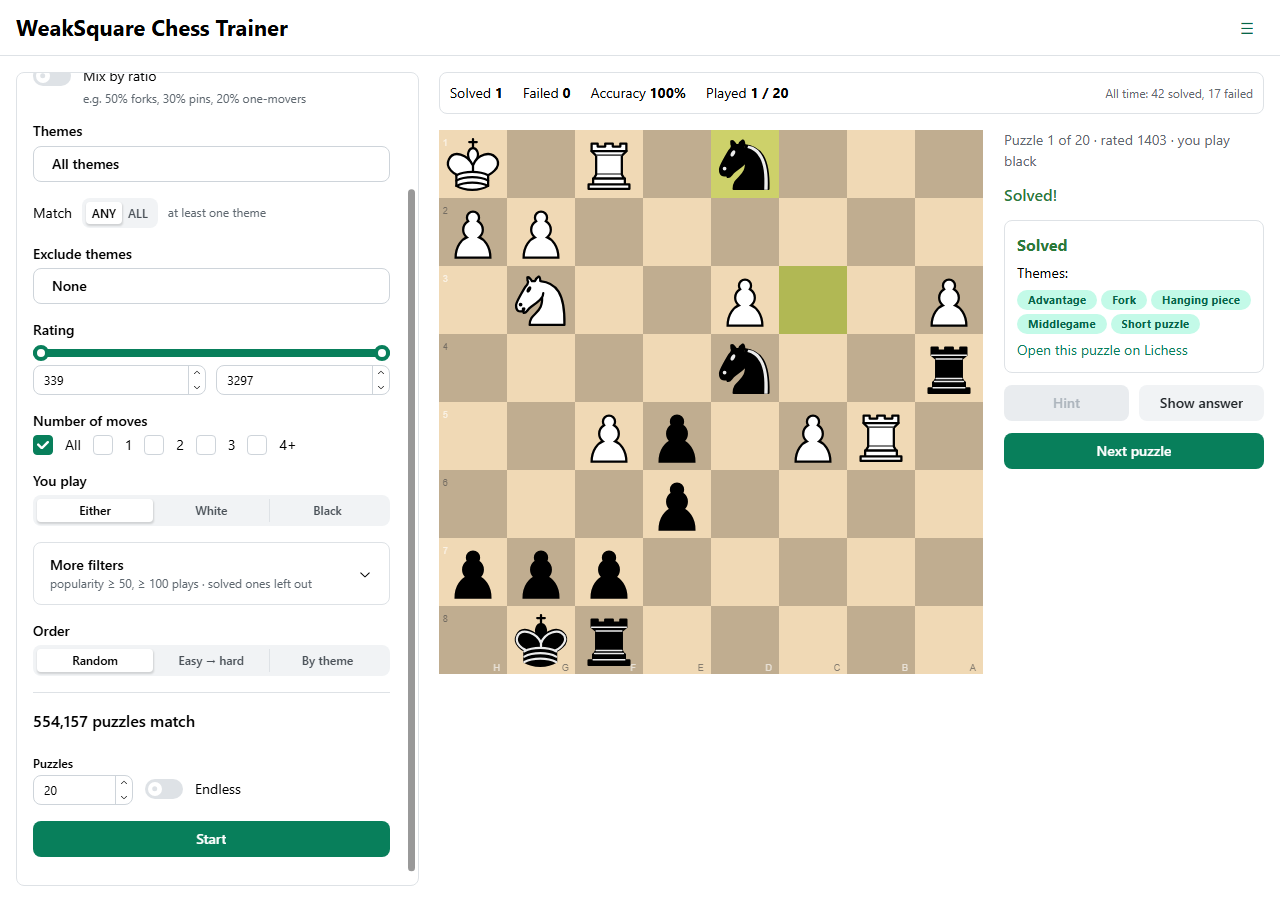
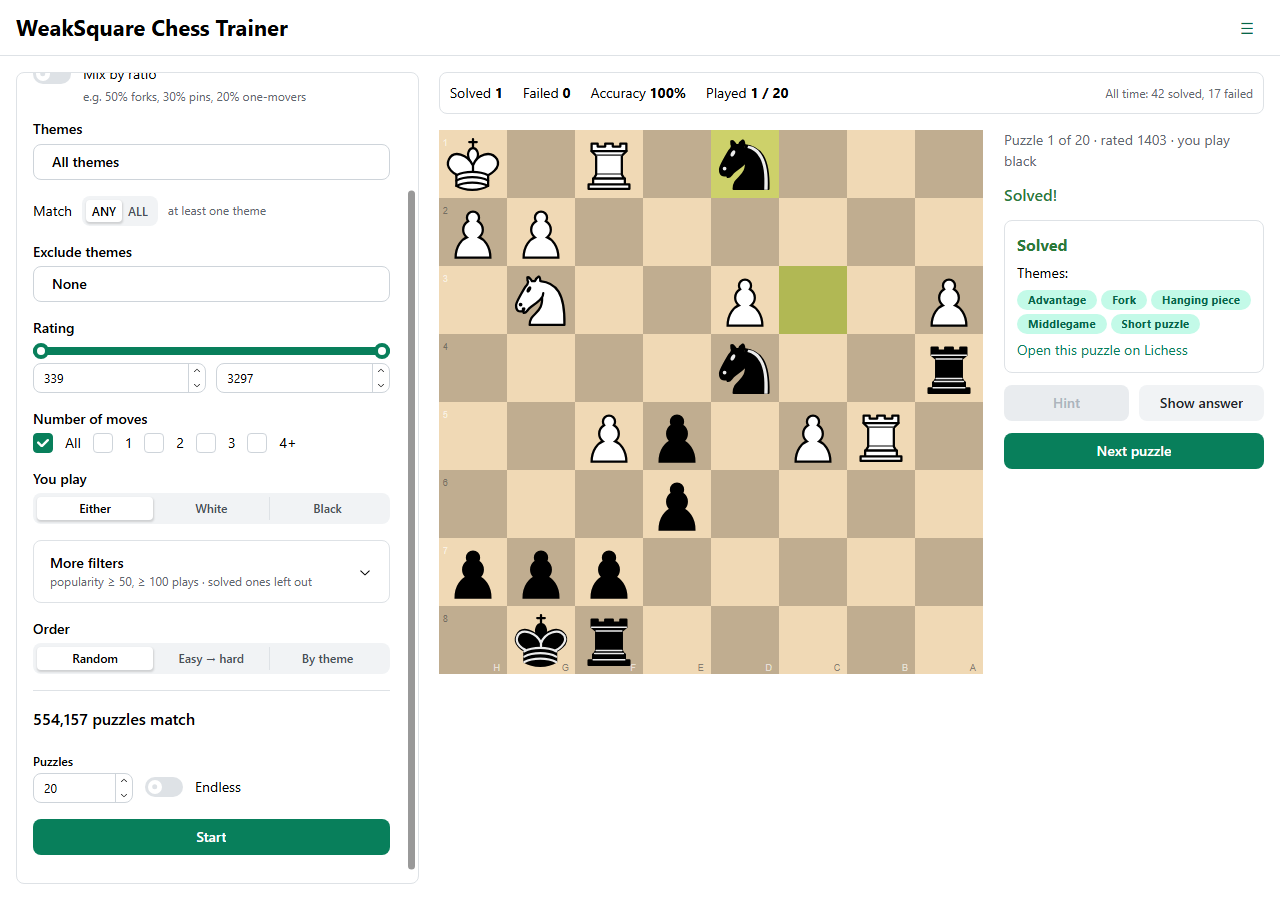
Fix v0.2-B5..B10: reproducible screenshots (panel top, settle), setup.py help and finish line, version 0.2.0 (+ agreement test), guide wording, 2px page overflow, ARCHITECTURE layout

diff --git a/web/src/views/MixerView.tsx b/web/src/views/MixerView.tsx
@@ -31,7 +31,8 @@ import { ThemePicker } from "../components/ThemePicker";
 
 const COUNT_DEBOUNCE_MS = 250;
 // The panel scrolls on its own, so the page (and the board beside it) never does.
-const PANEL_MAX_HEIGHT = "calc(100vh - 56px - 2 * var(--mantine-spacing-md))";
+// (56px header, the page padding above and below, and the panel's two 1px borders: v0.2-B9.)
+const PANEL_MAX_HEIGHT = "calc(100vh - 56px - 2 * var(--mantine-spacing-md) - 2px)";
 
 // A one-line summary of the "More filters" section, so its defaults are never invisible.
 function moreSummary(spec: FilterSpec): string {

diff --git a/web/src/api/mockClient.ts b/web/src/api/mockClient.ts
@@ -207,7 +207,7 @@ export class MockClient implements ApiClient {
 
   async getAppInfo(): Promise<AppInfo> {
     return {
-      version: "0.1.0",
+      version: "0.2.0",
       data_dir: "C:\\Users\\you\\AppData\\Local\\WeakSquare",
       logs_dir: "C:\\Users\\you\\AppData\\Local\\WeakSquare\\logs",
       dev_mode: false,

diff --git a/tests/e2e/test_docs_screenshots.py b/tests/e2e/test_docs_screenshots.py
@@ -18,9 +18,17 @@ pytestmark = pytest.mark.docs_screenshots
 IMG = Path(__file__).resolve().parents[2] / "docs" / "img"
 
 
+def panel_top(page) -> None:  # type: ignore[no-untyped-def]
+    """Scroll the filter panel to the top: where focus left it depends on timing (v0.2-B5), and the
+    reader should see the panel's title, Preset and Mix by ratio."""
+    page.locator("[data-testid=mixer-scroll] .mantine-ScrollArea-viewport").first.evaluate("e => e.scrollTo(0, 0)")
+    page.mouse.move(1270, 890)  # no hover highlight anywhere
+
+
 def shot(page, name: str, **kwargs) -> None:  # type: ignore[no-untyped-def]
     IMG.mkdir(parents=True, exist_ok=True)
-    page.wait_for_timeout(400)  # let animations settle
+    page.evaluate("document.fonts.ready.then(() => true)")
+    page.wait_for_timeout(1000)  # let transitions (focus rings, the segmented-control indicator) settle (v0.2-B5)
     page.screenshot(path=str(IMG / f"{name}.png"), animations="disabled", **kwargs)
 
 
@@ -49,6 +57,8 @@ def test_choosing_puzzles(page) -> None:  # type: ignore[no-untyped-def]
     page.get_by_label("Maximum rating").press("Enter")
     page.get_by_label("2 moves").check()
     page.get_by_test_id("match-count").filter(has_text="307,865").wait_for()
+    page.locator("body").click(position={"x": 1100, "y": 600})  # take focus out of the rating box
+    panel_top(page)
     shot(page, "mixer")
 
 
@@ -92,6 +102,7 @@ def test_presets(page) -> None:  # type: ignore[no-untyped-def]
         page.get_by_test_id(f"ratio-weight-{i}").fill(w)
     page.get_by_test_id("ratio-total").filter(has_text="Total 100%").wait_for()
     page.get_by_test_id("match-count").filter(has_text="puzzles match").wait_for()
+    panel_top(page)
     page.get_by_test_id("preset-save").click()
     page.get_by_test_id("preset-name").fill("Combo night")
     shot(page, "presets")

diff --git a/scripts/setup.py b/scripts/setup.py
@@ -203,8 +203,20 @@ def create_shortcuts(
     return links
 
 
+def finish_message(links: list[Path]) -> str:
+    """Setup's last line: where to start the app (v0.2-B6: it named shortcuts it hadn't made)."""
+    places = []
+    if any("Start Menu" in str(p) for p in links):
+        places.append("the Start menu")
+    if any("Start Menu" not in str(p) for p in links):
+        places.append("your desktop")
+    if not places:
+        return "Setup complete. Start the app with: uv run python -m weaksquare"
+    return f"Setup complete. Start WeakSquare Chess Trainer from {' or '.join(places)}."
+
+
 def main() -> int:
-    ap = argparse.ArgumentParser(description=__doc__.splitlines()[0])
+    ap = argparse.ArgumentParser(description=__doc__, formatter_class=argparse.RawDescriptionHelpFormatter)
     ap.add_argument("--no-shortcut", action="store_true", help="create neither shortcut")
     ap.add_argument("--no-desktop-shortcut", action="store_true", help="create the Start-menu shortcut only")
     ap.add_argument("--skip-puzzle-db", action="store_true")
@@ -220,8 +232,8 @@ def main() -> int:
     install_playwright(uv)
     install_pre_commit(uv)
     import_puzzles(uv, args)
-    create_shortcuts(args)
-    print("\nSetup complete. Start WeakSquare Chess Trainer from the Start menu or your desktop.")
+    links = create_shortcuts(args)
+    print("\n" + finish_message(links))
     return 0
 
 

diff --git a/tests/unit/test_setup_shortcuts.py b/tests/unit/test_setup_shortcuts.py
@@ -91,3 +91,22 @@ def test_the_icon_file_exists() -> None:
 @pytest.mark.skipif(sys.platform != "win32", reason="the known-folder API is Windows-only")
 def test_real_known_folder_lookup_returns_an_existing_folder() -> None:
     assert setup_script.desktop_folder().is_dir()
+
+
+def test_finish_message_names_only_the_shortcuts_made() -> None:
+    """v0.2-B6: with --no-shortcut, setup said to start the app from the Start menu or desktop."""
+    name = "WeakSquare Chess Trainer.lnk"
+    both = setup_script.finish_message([START / name, ONEDRIVE_DESKTOP / name])
+    assert both.endswith("from the Start menu or your desktop.")
+    assert setup_script.finish_message([START / name]).endswith("from the Start menu.")
+    assert "uv run python -m weaksquare" in setup_script.finish_message([])
+
+
+def test_help_describes_the_whole_download() -> None:
+    """v0.2-B6 / FR-2.1a: --help says it's the entire database, with its sizes."""
+    import subprocess
+
+    out = subprocess.run([sys.executable, str(ROOT / "scripts" / "setup.py"), "--help"], capture_output=True, text=True)
+    assert out.returncode == 0
+    for words in ("entire Lichess puzzle database", "300 MB", "6 million", "1.5 GB", "--no-desktop-shortcut"):
+        assert words in out.stdout, words

diff --git a/tests/e2e/test_mixer_v02.py b/tests/e2e/test_mixer_v02.py
@@ -220,3 +220,18 @@ def test_user_guide_uses_the_same_wording() -> None:
     guide = (Path(__file__).resolve().parents[2] / "docs" / "USER_GUIDE.md").read_text(encoding="utf-8")
     for words in ("**entire** database", "not a sample", "about 300 MB", "about 6 million puzzles", "1.5 GB"):
         assert words in guide, words
+
+
+@pytest.mark.parametrize("size", [(1280, 900), (1000, 700), (1920, 1080)])
+def test_no_page_scrollbar_beside_the_filter_panel(browser, mock_url: str, size: tuple[int, int]) -> None:  # type: ignore[no-untyped-def]
+    """v0.2-B9: the window showed a second, page-level scrollbar next to the filter panel's own.
+    Without the update banner the page fits the window; only the panel scrolls."""
+    ctx = browser.new_context(viewport={"width": size[0], "height": size[1]})
+    page = ctx.new_page()
+    try:
+        page.goto(mock_url + "/")
+        page.get_by_test_id("match-count").filter(has_text="puzzles match").wait_for()
+        overflow = page.evaluate("document.documentElement.scrollHeight - window.innerHeight")
+        assert overflow <= 0, f"the page is {overflow}px taller than the window"
+    finally:
+        ctx.close()

diff --git a/tests/contract/test_versions_agree.py b/tests/contract/test_versions_agree.py
@@ -1,0 +1,25 @@
+"""v0.2-B7 regression: the version the app reports (About screen, log banner) is the one in
+pyproject.toml and web/package.json; bump them together at each version."""
+
+from __future__ import annotations
+
+import json
+import tomllib
+from pathlib import Path
+
+import weaksquare
+from weaksquare.config import APP_VERSION
+
+ROOT = Path(__file__).resolve().parents[2]
+
+
+def test_versions_agree() -> None:
+    py = tomllib.loads((ROOT / "pyproject.toml").read_text(encoding="utf-8"))["project"]["version"]
+    web = json.loads((ROOT / "web" / "package.json").read_text(encoding="utf-8"))["version"]
+    lock = json.loads((ROOT / "web" / "package-lock.json").read_text(encoding="utf-8"))["version"]
+    assert APP_VERSION == weaksquare.__version__ == py == web == lock
+
+
+def test_version_matches_the_branch_being_built() -> None:
+    """While v0.x is built, the app says 0.x.0 (v0.2-B7: v0.2 still said 0.1.0)."""
+    assert APP_VERSION == "0.2.0"

diff --git a/tests/smoke/test_qa_v01_real_app.py b/tests/smoke/test_qa_v01_real_app.py
@@ -13,6 +13,7 @@ from pathlib import Path
 
 import pytest
 
+import weaksquare
 from tests.e2e.conftest import play
 from tests.smoke.conftest import attach, free_port, launch_app
 
@@ -97,7 +98,7 @@ def test_main_flow_alternative_mate_wrong_move_persistence(pw, data_dir: Path) -
 
     log = (data_dir / "logs" / "weaksquare.log").read_text(encoding="utf-8")
     first = log.splitlines()[0]
-    assert "0.1.0" in first and "Python" in first, first  # NFR-4 version banner
+    assert weaksquare.__version__ in first and "Python" in first, first  # NFR-4 version banner
 
     app = launch_app(data_dir, free_port())
     try:

diff --git a/tests/integration/test_session.py b/tests/integration/test_session.py
@@ -199,7 +199,7 @@ def test_swap_between_the_version_check_and_the_read_never_serves_a_wrong_puzzle
     services.sessions.next_puzzle(sid)  # fills the queue with keys of the current file
     # The new file drops the low-rated half, so every old key now points at a different puzzle.
     new_db = _subset_db(tmp_path / "b.db", lambda r: r.rating > 1200 or r.rating % 2 == 0)
-    source = services.sessions._puzzles  # noqa: SLF001
+    source = services.sessions._puzzles
     real_get = source.get
     swapped = []
 

diff --git a/src/weaksquare/__init__.py b/src/weaksquare/__init__.py
@@ -1,3 +1,3 @@
 """WeakSquare Chess Trainer."""
 
-__version__ = "0.1.0"
+__version__ = "0.2.0"

diff --git a/ARCHITECTURE.md b/ARCHITECTURE.md
@@ -59,6 +59,9 @@ weaksquare-chess-trainer/
 │  │  ├─ checksums.py          # sha256sums.txt parsing
 │  │  ├─ filters.py            # FilterSpec (+ JSON schema, validation)
 │  │  ├─ queue.py              # ordering, ratios, queue building (pure; takes candidate ids)
+│  │  ├─ move_sounds.py        # which sound a move makes (v0.2)
+│  │  ├─ stats.py              # Stats grouping: theme, length, rating band (v0.2)
+│  │  ├─ db_update.py          # newer-export rules, puzzle-count parsing (v0.2)
 │  │  ├─ scoring.py            # win/loss, help → loss, angle selection
 │  │  ├─ modes/                # TrainingMode protocol + one module per mode
 │  │  ├─ reasons.py            # mistake-reason suggestion rules      (v0.6)
@@ -66,7 +69,8 @@ weaksquare-chess-trainer/
 │  │  ├─ tags.py               # habit tags from attack maps          (v0.10)
 │  │  └─ weakness.py           # metrics + status rules               (v1.0)
 │  ├─ services/                # one module per use-case area; created when first needed
-│  │                           #   v0.1: puzzle_db.py (import job), mixer.py (catalog, counts), session.py
+│  │                           #   v0.1: puzzle_db.py (import and upgrade jobs), mixer.py (catalogs, counts), session.py
+│  │                           #   v0.2: presets.py, stats.py, ui_settings.py, db_update.py (update check job)
 │  ├─ adapters/
 │  │  ├─ db/
 │  │  │  ├─ connection.py      # opens puzzles.db + user.db, ATTACH, pragmas
@@ -100,10 +104,11 @@ weaksquare-chess-trainer/
 │  ├─ e2e/                     # Playwright against web/ with mockClient
 │  ├─ smoke/                   # the real app over CDP (harness in conftest.py)
 │  ├─ fulldb/                  # opt-in timings against the full puzzle DB
-│  └─ fixtures/                # tiny puzzle CSV sample, scrubbed HTTP recordings
+│  └─ fixtures/                # tiny puzzle CSV sample, scrubbed HTTP recordings (http/lichess_db/);
+│                              #   tools/ holds the dev-only generator and recorder scripts
 └─ scripts/                    # setup.py (one-command setup), fetch_puzzle_db.py, fetch_stockfish.py
                                #   (thin CLIs over services, download + hash check), check_docs.py,
-                               #   gen_types.py (bridge/dto.py → web/src/api/types.ts)
+                               #   gen_types.py (bridge/dto.py → web/src/api/types.ts), make_icon.py (v0.2)
 ```
 
 `services/` and later `adapters/` modules are created **in the version that first needs them**. The tree shows the end state.

diff --git a/docs/USER_GUIDE.md b/docs/USER_GUIDE.md
@@ -39,7 +39,7 @@ Planned chapters, added only when their version ships (see CLAUDE.md "Documentat
 ## Getting started: the puzzle database
 *Added in v0.1. Changed in v0.2: the wording says what you download.*
 
-WeakSquare trains on the Lichess open puzzle database, which is public domain. **Download from Lichess** fetches the **entire** database, every puzzle and not a sample: about 300 MB compressed, about 6 million puzzles, and roughly 1.5 GB on disk once imported. It's stored on your PC, so after the first download everything works offline. With no filters set, the match count equals the number of puzzles imported.
+WeakSquare trains on the Lichess open puzzle database, which is public domain. **Download from Lichess** fetches the **entire** database, every puzzle and not a sample: about 300 MB compressed, about 6 million puzzles, and roughly 1.5 GB on disk once imported. It's stored on your PC, so after the first download everything works offline. With every filter cleared, including the quality filter under **More filters**, the match count equals the number of puzzles imported. With the default quality filter on, it's lower (see *Choosing your puzzles*).
 
 If setup already imported it, the app opens straight to your puzzles. Otherwise the first screen is **Get the puzzle database**:
 
